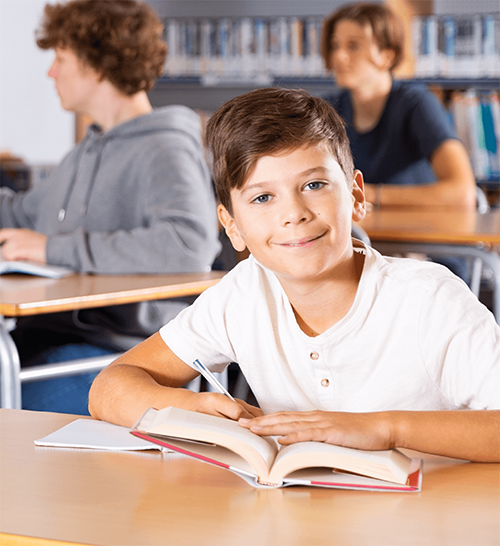
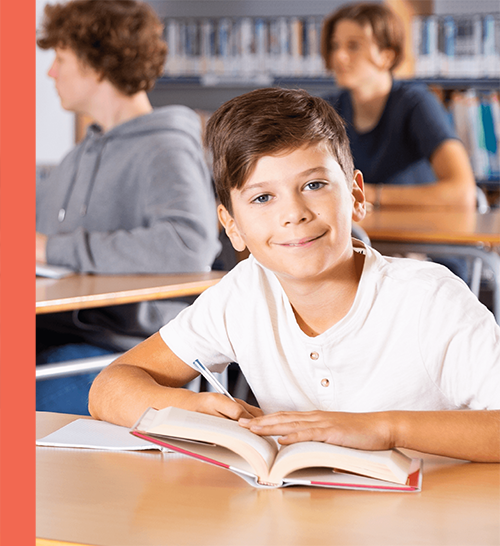
Update-36

Changed region(s): [[0.0, 0.0, 0.09, 1.0]]

diff --git a/src/app/components/bilingual/bilingual.component.scss b/src/app/components/bilingual/bilingual.component.scss
@@ -48,7 +48,7 @@ html {
   text-align: center;
   width: 271.2px;
   height: 295px;
-
+  overflow: hidden;
   &.zoom-30 {
     animation: zoomAnimationgrid 10s infinite alternate;
   }
@@ -68,20 +68,34 @@ html {
 
 .img-container {
   transform: translateX(0%);
-  width: 271.2px;
-  height: 295px;
+  width: 271px;
+  height: 296px;
   overflow: hidden;
 
   img {
-    width: 271.2px;
-    height: 295px;
-    animation: pic 1.8s forwards;
+    border: 0; /* Remove border */
+    margin: 0; /* Remove margin */
+    padding: 0; /* Remove padding */
+    display: inline-block; /* Reset display property */
+    width: 271px;
+    height: 296px;
+    position: absolute;
+    top: 0%;
+    right: 0%;
+    transform: scale(1.3);
+    animation: pic 2s;
+    animation-fill-mode: forwards;
   }
 
   .overlay {
-
+    width: 271px;
+    height: 296px;
+    position: absolute;
     transform: scaleX(0);
+    transform-origin: 0% 50%;
     animation: overlay 1.8s forwards;
+    overflow: hidden;
+    opacity: 1;
 
     &.arabic {
       background-color: #a7463f;
@@ -115,7 +129,7 @@ html {
   opacity: 0.4;
   position: absolute;
   top: 77%;
-  left: 0;
+  left: 6.6%;
   height: 15%;
   width: 100%;
   display: flex;
@@ -132,7 +146,7 @@ html {
   background-color: white;
   position: absolute;
   top: 92%;
-  left: 0;
+  left: 6.6%;
   height: 0.6%;
   width: 100%;
   transform: scaleX(0);
@@ -191,7 +205,7 @@ html {
 
 .inner-text {
   position: absolute;
-  top: 70.9%;
+  top: 72%;
   left: 1%;
   height: 10%;
   width: 100%;
@@ -235,7 +249,7 @@ html {
   }
   100% {
     opacity: 1;
-    transform: scale(1);
+    transform: scale(1.01);
   }
 }
 
@@ -243,22 +257,18 @@ html {
   0% {
     transform: scaleX(0);
     transform-origin: 100% 50%;
-    opacity: 0;
   }
   50% {
     transform: scaleX(1);
     transform-origin: 100% 50%;
-    opacity: 1;
   }
   51% {
     transform: scaleX(1);
     transform-origin: 0% 50%;
-    opacity: 1;
   }
   100% {
-    transform: scaleX(0.075);
+    transform: scaleX(0);
     transform-origin: 0% 50%;
-    opacity: 1;
   }
 }
 

diff --git a/src/app/components/bilingual/bilingual.component.html b/src/app/components/bilingual/bilingual.component.html
@@ -25,8 +25,9 @@
                     <div class="scaled-rectangle-topRight arabic"></div>
                     <div class="overlay arabic"></div>
                     <img style="background-image: url('assets/Images/Bilingual/Arabic.png');
-                  background-size: contain;
-      background-repeat: no-repeat;">
+                  background-size: cover;
+      background-repeat: no-repeat;
+      background-position: center;overflow: hidden;">
                 </div>
             </div>
 

diff --git a/src/app/components/bilingual/bilingual.component.ts b/src/app/components/bilingual/bilingual.component.ts
@@ -22,9 +22,9 @@ export class BilingualComponent implements OnInit {
   ngOnInit(): void {
     setTimeout(() => {
       // Navigate to the specified route
-      //this.isZoomin = true;
-      this.isLoaded = true;
-    }, 3900); // Adjust the timeout value based on your animation duration
+      this.isZoomin = true;
+      //this.isLoaded = true;
+    }, 900); // Adjust the timeout value based on your animation duration
   }
 
   changeClass_1() {
